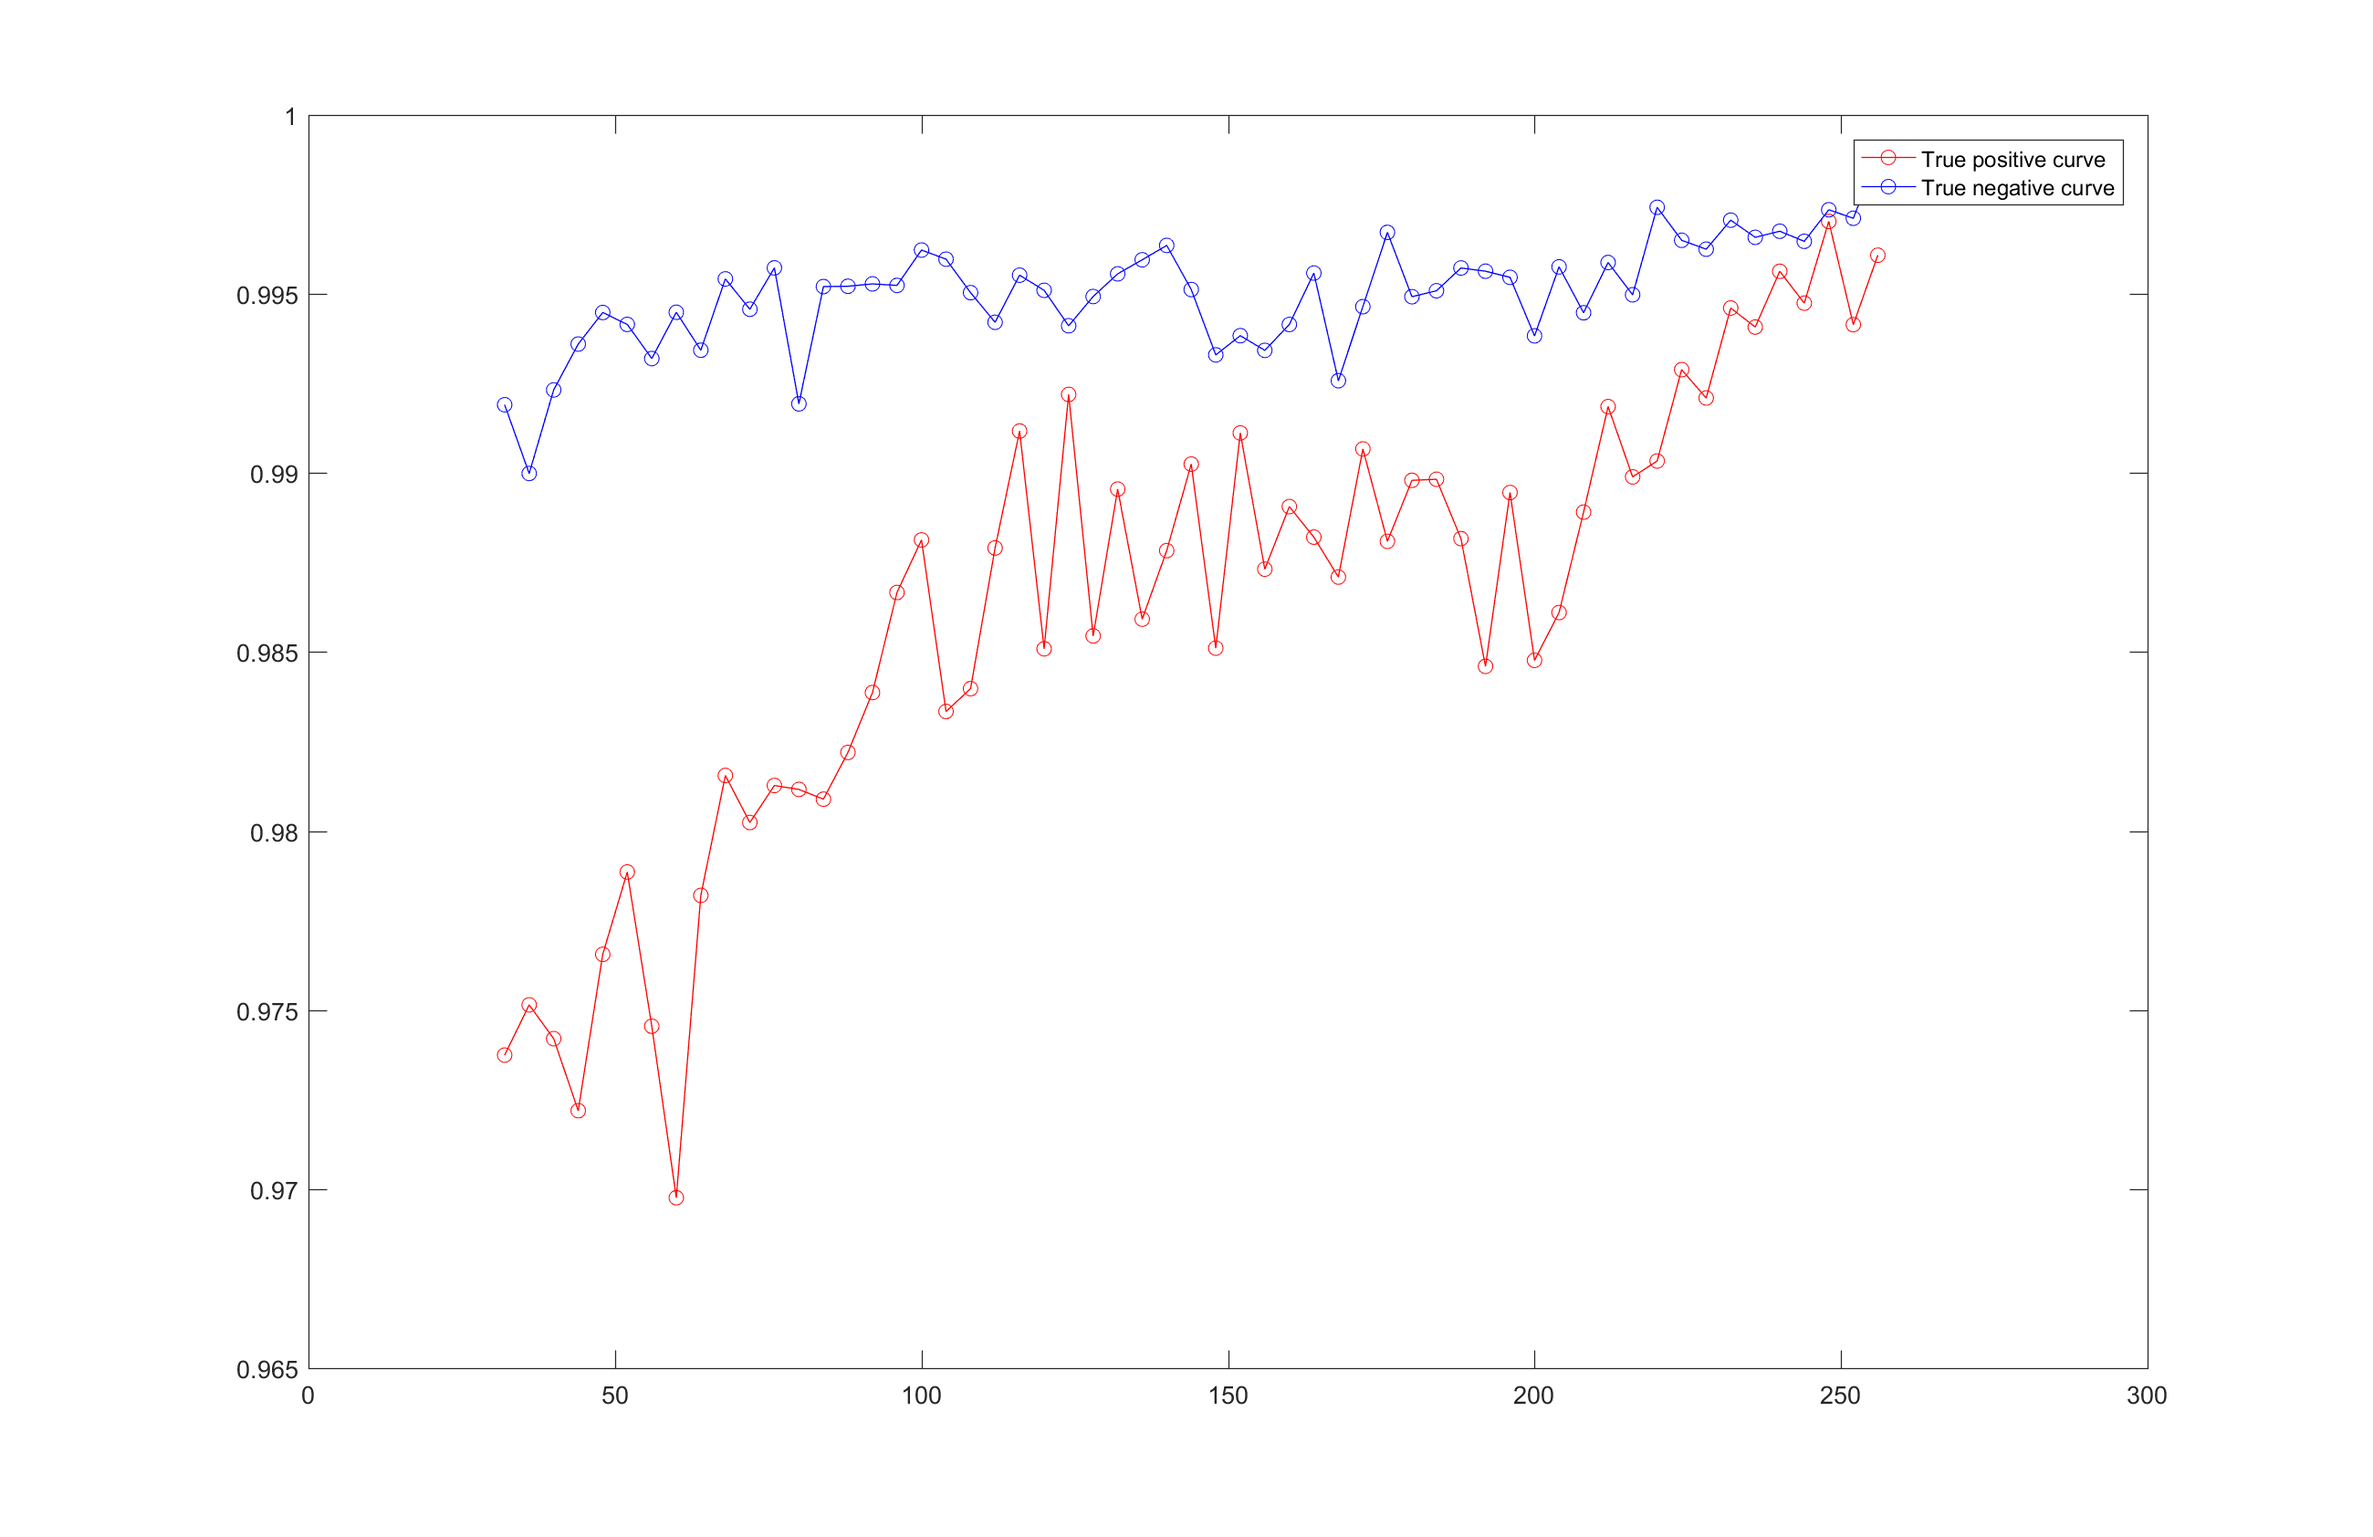
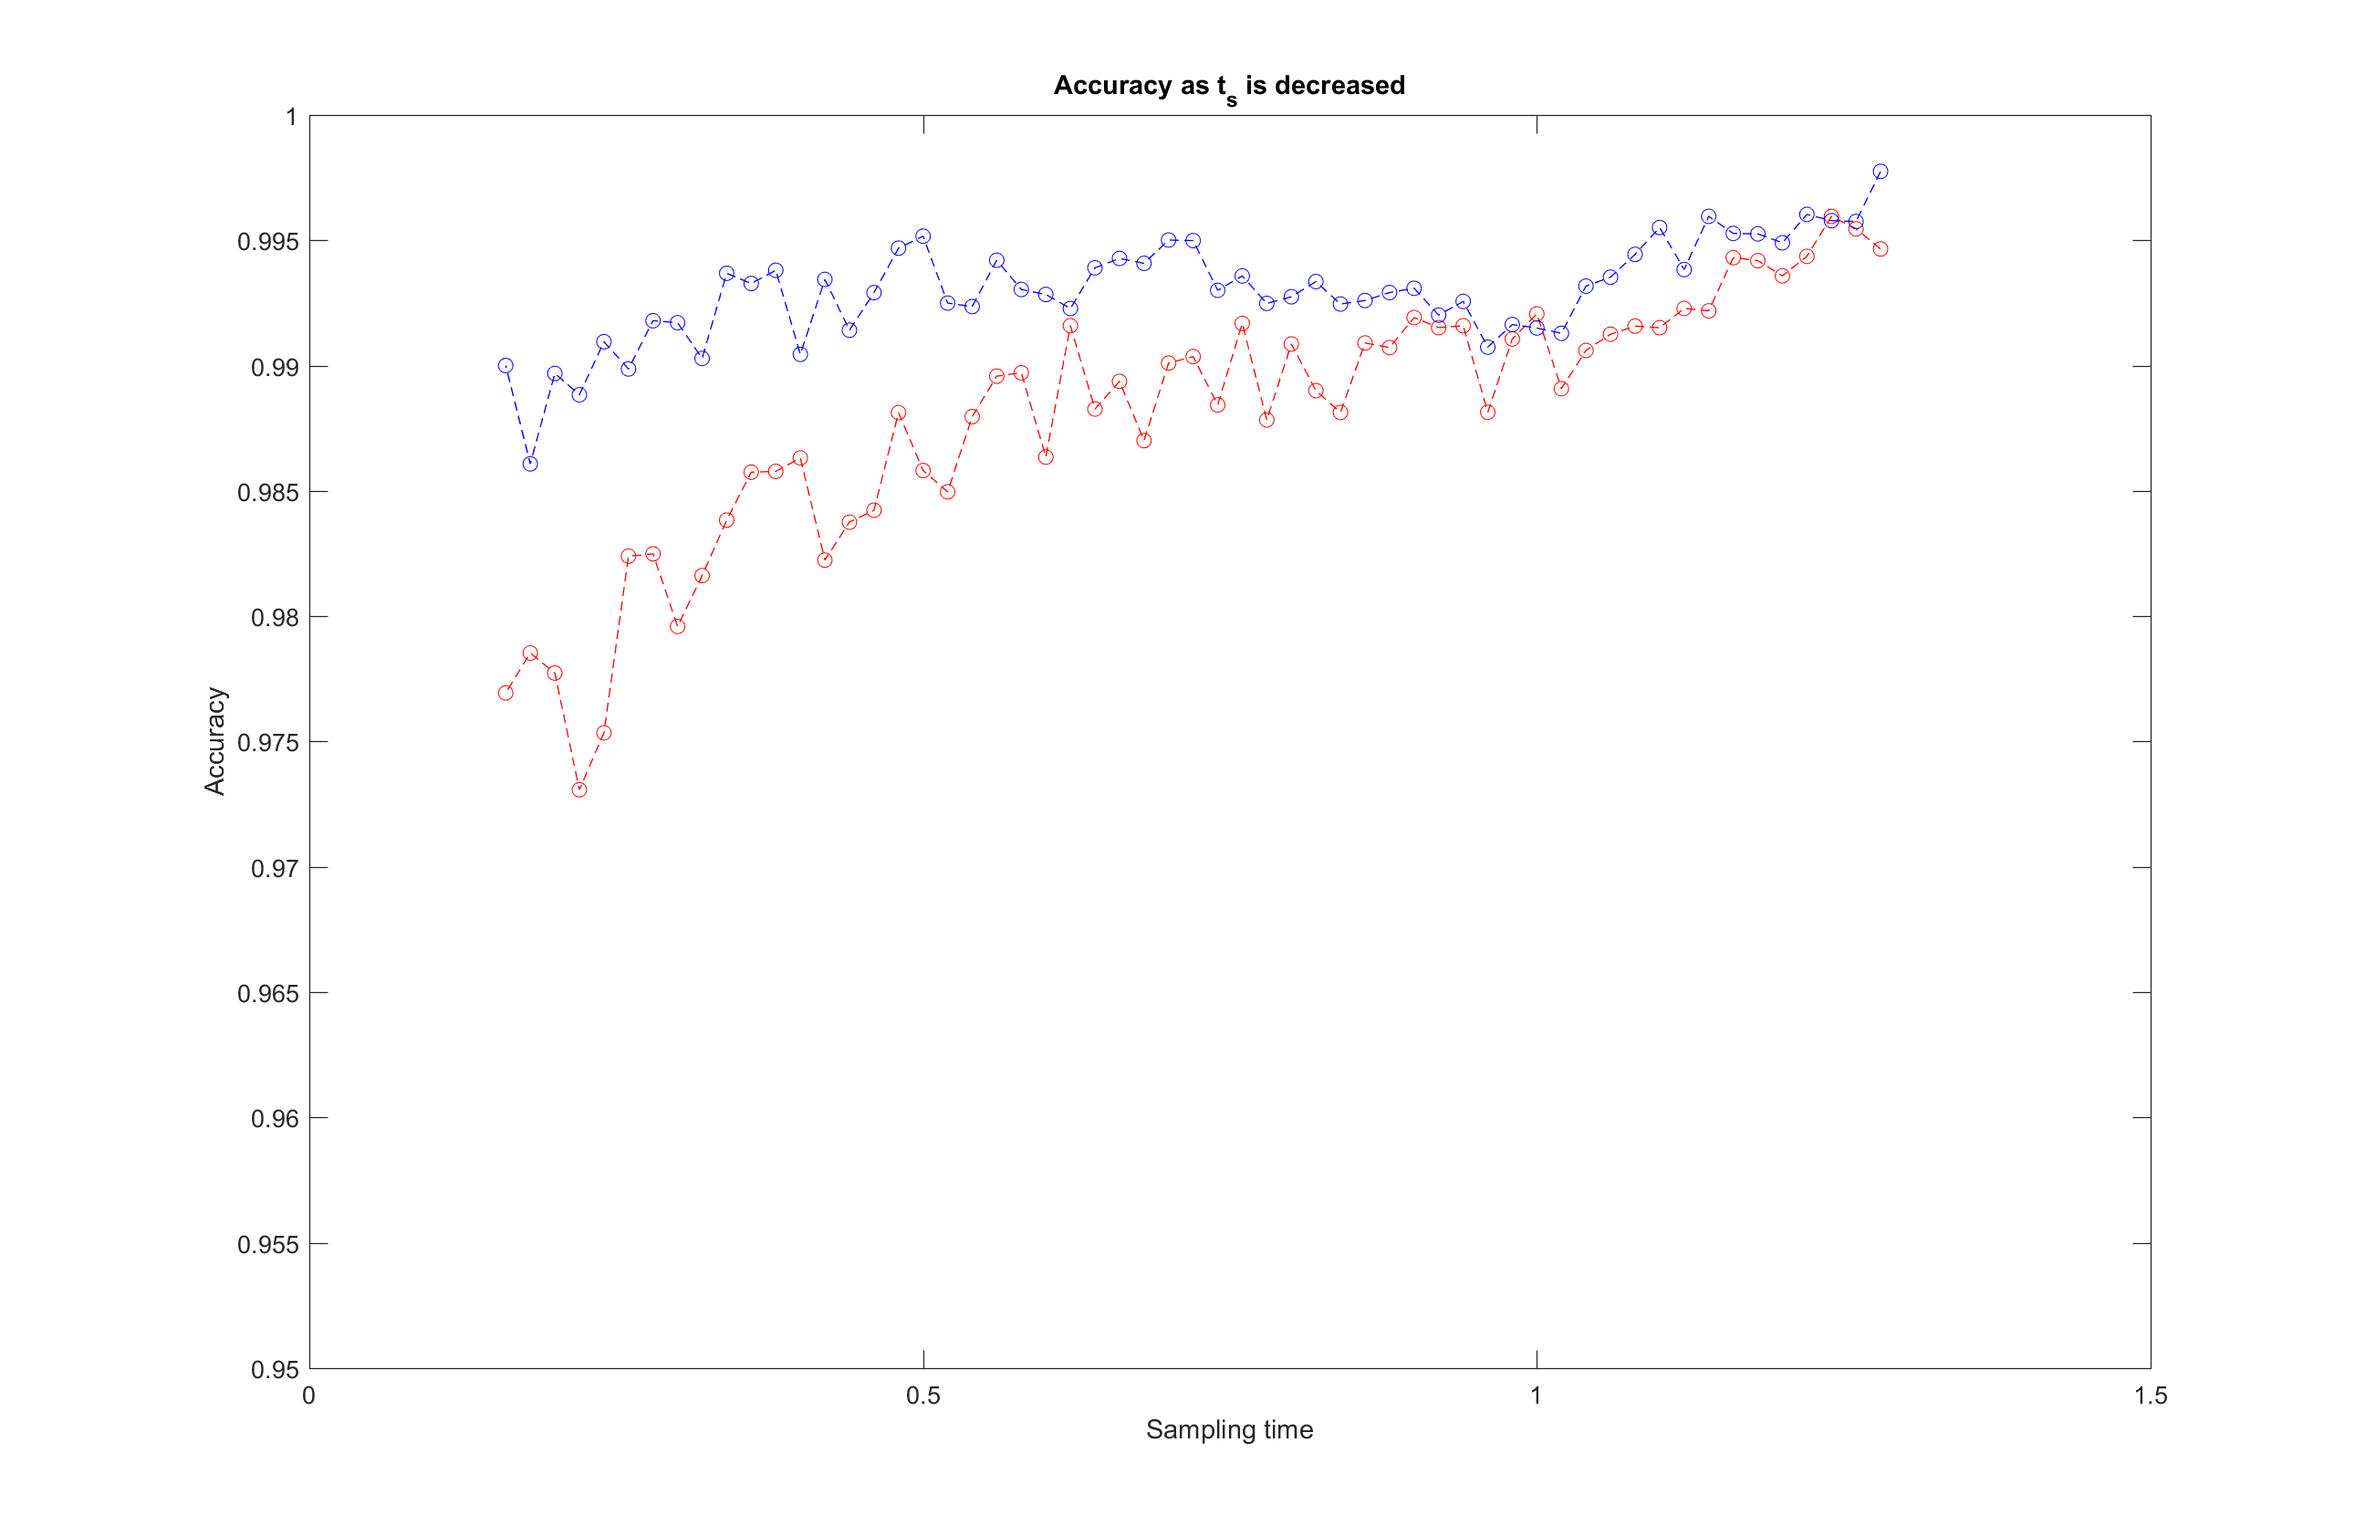
Changed the x-axis of the sampling time decrease to show time in seconds rather than individual samples. Also added a plot with the new theme

diff --git a/Matlab/exjobb/Matlab ACC/plot_decrease_sample_size.m b/Matlab/exjobb/Matlab ACC/plot_decrease_sample_size.m
@@ -41,24 +41,27 @@ skewness_psdx, skewness_tilt_psdx ,kurtosis_psdx, kurtosis_tilt_psdx, index_of_f
 
     end
 
-% plot(linspace(max_samples,min_samples,nbr_steps+1),true_positives,'g');
-% hold on;
-% plot(linspace(max_samples,min_samples,nbr_steps+1),1-false_positives,'b');
-x = linspace(max_samples,min_samples, nbr_steps+1);
-x = x / target_freq;
+plot(linspace(max_samples,min_samples,nbr_steps+1)/target_freq,true_positives,'r--o');
+hold on;
+plot(linspace(max_samples,min_samples,nbr_steps+1)/target_freq,1-false_positives,'b--o');
+limits = [0 1.5 0.95 1];
+axis(limits);
+
+%x = linspace(max_samples,min_samples, nbr_steps+1);
+%x = x / target_freq;
 % vq128ft = interp1(x',true_positive',xq);
 % vq128ff = interp1(x',false_positive',xq);
 
-fit_true_positive = fit(x',true_positives,'smoothingspline');
-fit_false_positive = fit(x',1-false_positives,'smoothingspline');
-figure
+% fit_true_positive = fit(x',true_positives,'smoothingspline');
+% fit_false_positive = fit(x',1-false_positives,'smoothingspline');
+% figure
 h = plot(fit_true_positive,'r',x',true_positives','.r');
 %set(h,{'LineWidth', 'MarkerSize','Marker'},{2,3,'x';2,3,'x'});
-set(h,'LineWidth',1,'Marker','o','MarkerSize',2,'MarkerEdgeColor','g');
-hold on
-h = plot(fit_false_positive,'b',x',1-false_positives','.b');
+%set(h,'LineWidth',1,'Marker','o','MarkerSize',2);
+% hold on
+% h = plot(fit_false_positive,'b',x',1-false_positives','.b');
 %set (h, 'LineWidth', 3,'MarkerSize',4);
-set(h,'LineWidth',1,'Marker','o','MarkerSize',2,'MarkerEdgeColor','g');
+%set(h,'LineWidth',1,'Marker','o','MarkerSize',2);
 legend('True positive datapoints','True positive fitted curve','True negative datapoints','True positive fitted curve');
 % [X,Y] = meshgrid(linspace(max_samples,min_samples,nbr_steps+1), start_lag:end_lag);
 % figure

diff --git a/Matlab/exjobb/Matlab ACC/ACC.m b/Matlab/exjobb/Matlab ACC/ACC.m
@@ -140,14 +140,13 @@ max_samples = 256;
 min_samples = 32;
 %min_samples = 254;
 nbr_steps = 56;
-nbr_steps = 2;
 %nbr_steps = 1;
 lag = 30;
 alpha = 0.9;
 
 write_svm_model_to_file = 0;
 %[max_true_positive,min_false_positive ,lag_index_true_positive, lag_index_false_positive , corresponding_false_positive, corresponding_true_positive] = plot_decrease_sample_size(samples, max_samples,min_samples, nbr_steps,nposfiles,nnegfiles,lag, attempts,alpha, write_svm_model_to_file);
-[true_positives_decrease_samples,false_positives_decrease_samples] =  plot_decrease_sample_size(samples, max_samples,min_samples, nbr_steps,nposfiles,nnegfiles,lag, 1,alpha, write_svm_model_to_file,target_freq);
+[true_positives_decrease_samples,false_positives_decrease_samples] =  plot_decrease_sample_size(samples, max_samples,min_samples, nbr_steps,nposfiles,nnegfiles,lag, 500,alpha, write_svm_model_to_file,target_freq);
 %plot_ROC(true_positives_decrease_samples, false_positives_decrease_samples, 'b--o', 'ROC plot. Decreasing the sampling time from 1.28 to 0.16 (s)');
 %% plot frequency decrease
 nbr_steps = 4;

diff --git a/Matlab/exjobb/Matlab ACC/train_and_test_scm_model.m b/Matlab/exjobb/Matlab ACC/train_and_test_scm_model.m
@@ -123,7 +123,7 @@ weights(nposfiles+1:nposfiles+nnegfiles,1) = 1 / nnegfiles;
 % Cost = [0 (nposfiles/nnegfiles); 1  0];
 % SVMModel = fitcknn(trainObservations,trainLabels,'NumNeighbors',15,'Standardize',1, 'Cost', Cost);
 %SVMModel = fitctree(trainObservations,trainLabels);
-SVMModel = fitclinear(trainObservations,trainLabels, 'Cost',[0 1; 400 0]);
+SVMModel = fitclinear(trainObservations,trainLabels, 'weights', weights(trainIndex));
 %SVMModel = fitcsvm(trainObservations,trainLabels, 'kernelFunction', 'polynomial');
 SVMModels{i} = SVMModel;
 %result = test_features( featureVector , attempts, alpha, nposfiles, nnegfiles);
